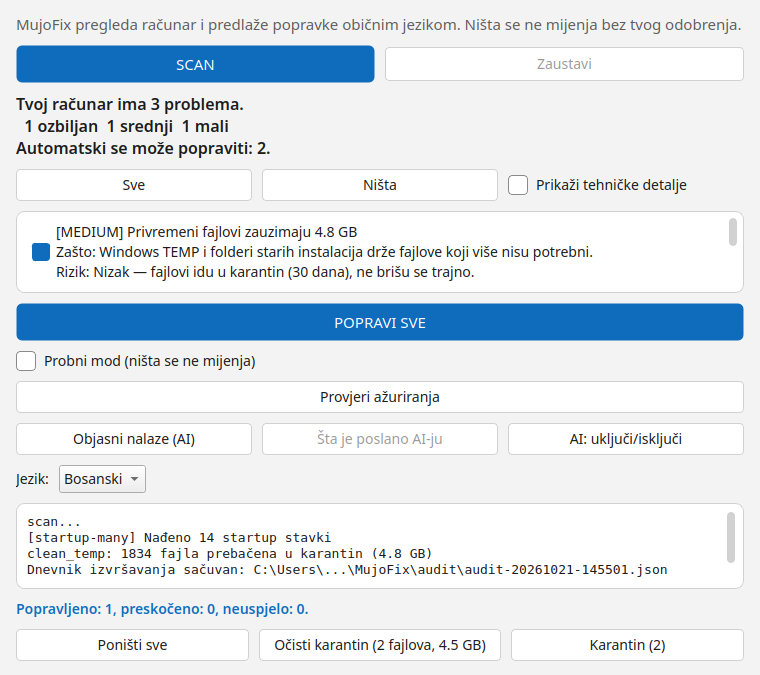
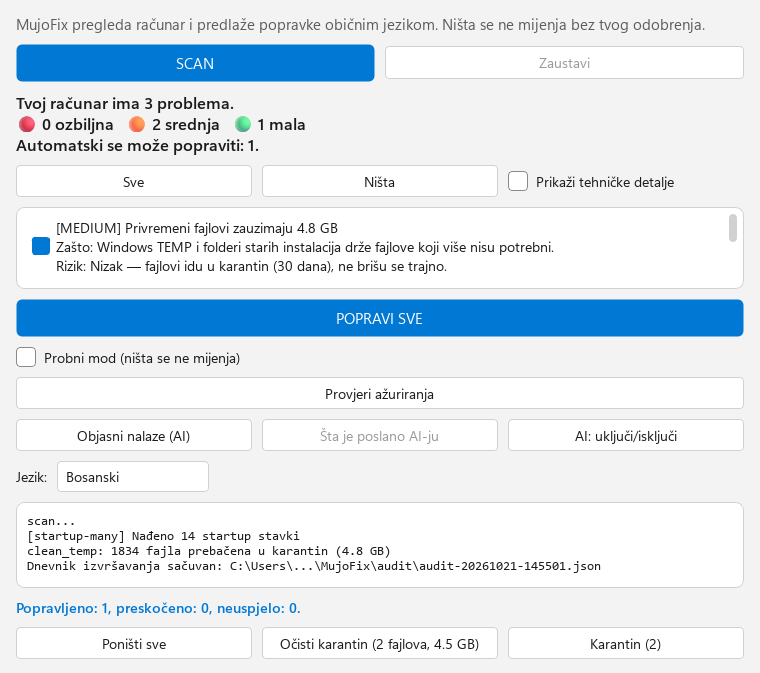
docs: validacija na pravom Win11 laptopu (dokazi + snimke + status)
Prva nezavisna validacija na fizickoj masini (Win11 Enterprise N, build 26300,
WDAC enforced + 8 ASR pravila) — dokazi u lab/results-win11-laptop/:
- scan 11/11 scannera bez skipova, JSON nalaza, ziv update check
- host_proof 12/12 PASS (apply -> verify -> rollback; power SKIP jer je plan
  vec Balanced)
- spike protiv pinovanog opencode 1.18.34: CHECK 1/2/5 PASS (config prihvacen:
  agent mujofix, 11 alata deny, MCP samo nas), 3/4 SKIP (nema kredencijala)
- GUI render offscreen NA WINDOWSU -> docs/screenshots/*.png su sada sa pravog
  Windowsa (Segoe UI, emoji se vide); README vise ne nosi napomenu o emoji-ju

Uz to u repo: lab/results-win11-laptop/README.md sa iskrenim spiskom sta je
agent promijenio na masini (SSH kljuc, privremeni Defender izuzetak, hosts
vracen na standardni sadrzaj, test share/startup rollback-ovani) i sta nije
pokriveno (zivi model, GUI klikanje, installer).

README bs+en, docs/STATUS.md i docs/TESTING.md (A i C oznaceni kao izvrseni na
pravom Windowsu), CHANGELOG (0.4.1). 334 testa.

diff --git a/lab/results-win11-laptop/README.md b/lab/results-win11-laptop/README.md
@@ -1,0 +1,63 @@
+# Rezultati validacije na pravom Windows 11 laptopu (2026-10-23)
+
+Prva **nezavisna validacija na fizičkoj mašini** (ne VM): `sha-laptop-win11`
+(DESKTOP-NGK7CLP), pristup preko SSH-a (Tailscale), sesija **elevated**
+(High Mandatory Level) — bez UAC promptova.
+
+## Mašina
+- **Windows 11 Enterprise N**, build **10.0.26300**
+- **WDAC enforced** (`CodeIntegrityPolicyEnforcementStatus = 2`)
+- **8 ASR pravila aktivna** (uključujući „Block executable files unless
+  prevalence/age/trusted" — zbog toga je prvo pokretanje `MujoFixCLI.exe`
+  vraćalo „Access is denied")
+- File-system filteri: `UCPD`, `WdFilter`, `bfs`, `luafv`, `Wof`, `FileInfo`…
+  (nema trećeg EDR-a)
+- Defender izuzeci **nađeni na mašini**: `C:\Users\Korisnik\mujofix-test`
+  (dodao agent, privremeno) i **`C:\Users\Korisnik\nikto`** (postojao prije
+  agenta — odakle je, nepoznato; vrijedi provjeriti)
+
+## Šta je pokrenuto i rezultat
+| Provjera | Rezultat |
+|---|---|
+| Instalacija (portable, SHA-256 provjeren) | ✅ |
+| `MujoFixCLI.exe scan --lang bs/en` + JSON nalaza | ✅ (`02-cli.txt`, `findings.json`) |
+| `MujoFixCLI.exe update` (živa provjera protiv release-a) | ✅ „Verzija 0.4.0 je najnovija." |
+| `scripts/host_proof.py` (akcije, apply → verify → rollback) | ✅ **12/12 PASS** (`host_proof.txt`) |
+| `scripts/phase0_spike.py` (pinovani opencode) | ✅ 1, 2, 5 PASS; 3/4 SKIP (nema model kredencijala) |
+| GUI render (offscreen, PySide6) | ✅ `docs/screenshots/*.png` su sada sa **pravog Windowsa** |
+
+`host_proof` detalj: `startup` ✅, `temp` ✅, `service` (Spooler restart) ✅,
+**`hosts`** ✅ (uklonjen zapis, ostatak nepromijenjen, rollback bajt-identičan),
+**`share`** ✅ (uklonjen i vraćen; `C$`/`ADMIN$` nedirnuti), `power` — SKIP
+(plan je već Balanced, iskreno).
+
+## Bugovi koje je ova validacija našla (i koji su popravljeni)
+1. **`remove_hosts_entry` je padao** (`WinError 5`) — ovaj Windows **zabranjuje
+   `os.replace`** (`MOVEFILE_REPLACE_EXISTING`) nad `…\etc\hosts`, a dozvoljava
+   `shutil.copyfile` (dokazano direktnim testom: replace ❌, remove+rename ✅,
+   copyfile ✅). → dodat fallback na kopiju (`f7a19b7`).
+2. **Akcija je mijenjala line-endings** (CRLF→LF), pa fajl nije bio
+   bajt-identičan poslije rollback-a → akcija sada radi **nad bajtovima**
+   (`f0694de`).
+3. **Izbor jezika (QComboBox) je u tamnoj temi bio nevidljiv** (bijeli tekst na
+   svijetloj native pozadini) → dodato stilizovanje comba (`1067e2e`).
+4. Usput, u samoj skripti: `host_proof.py` je padao kad akcija ne uspije
+   (`rollback(state=None)`) i imao je pogrešna očekivanja za hosts (`99567f8`).
+
+## Šta agent (ja) jeste promijenio na mašini — iskreno
+- dodao **SSH javni ključ** (`mujofix-agent`) u `administrators_authorized_keys`
+- dodao **privremeni Defender izuzetak** za `%USERPROFILE%\mujofix-test`
+  (bez toga se exe nije mogao pokrenuti zbog ASR/WDAC) — **obrisan na kraju**
+- tokom dijagnostike **prepisao `hosts` fajl**, pa ga **vratio na standardni
+  Windows sadržaj** (824 B, provjereno)
+- napravio i uklonio test share i test startup zapis (rollback-ovano)
+- instalirao `PySide6` (za offscreen snimke)
+
+## Šta još nije pokriveno
+- **Živi AI model** (spike 3/4): nema Zen kredencijala na mašini; besplatni
+  tier i dalje odbija poziv iz CLI-a (poznat rizik).
+- **GUI interakcija** (klikanje kroz „Popravi sve", UAC prompt): GUI je
+  renderovan i akcije su dokazane kroz `host_proof`, ali klikanje kroz prozor
+  nije odrađeno (nema interaktivne sesije za agenta).
+- **Installer** (`MujoFix-Setup-0.4.0.exe`) na ovoj mašini nije pokrenut
+  (korištena je portabilna verzija).

diff --git a/docs/STATUS.md b/docs/STATUS.md
@@ -105,6 +105,40 @@
   vozi bez covjeka. Pri pregledu uhvacen i popravljen bug u redoslijedu
   (`$ctxLog` je koristio `$OutDir` prije definisanja, a ZIP se pravio prije tog
   fajla).
+- VALIDACIJA NA PRAVOM WINDOWSU 2026-10-23 (laptop sha-laptop-win11, pristup
+  preko SSH-a uz kredencijale; sesija elevated = bez UAC): **prva nezavisna
+  validacija na fizickoj masini** — dokazi u `lab/results-win11-laptop/`.
+  Masina: **Win11 Enterprise N, build 26300, WDAC enforced + 8 ASR pravila**
+  (znaci bitno stroze od prosjeka). Rezultati:
+  - `scan` 11/11 scannera bez skipova; JSON nalaza (4 problema); `update` ->
+    "Verzija 0.4.0 je najnovija." (ziva provjera protiv release-a)
+  - **`scripts/host_proof.py`: 12/12 PASS** — startup/temp/service/hosts/share
+    (apply -> verify -> rollback identican; `C$`/`ADMIN$` nedirnuti); `power`
+    SKIP (plan je vec Balanced, iskreno)
+  - `scripts/phase0_spike.py` sa bundlovanim opencode 1.18.34: CHECK 1 PASS
+    (binary bez Node-a), **CHECK 2 PASS (pinovani binarni prihvata nas config:
+    agent mujofix, svih 11 alata deny, MCP samo nas)**, CHECK 5 PASS; 3/4 SKIP
+    (nema model kredencijala)
+  - GUI render offscreen (PySide6) na Windowsu -> `docs/screenshots/*.png` su
+    sada sa PRAVOG Windowsa (emoji se vide)
+  BUGOVI KOJE JE OVA VALIDACIJA NASLA (svi popravljeni):
+  1) `remove_hosts_entry` je padao sa WinError 5 — ovaj Windows ZABRANJUJE
+     `os.replace` (MOVEFILE_REPLACE_EXISTING) nad `...\etc\hosts`, a dozvoljava
+     `shutil.copyfile` (dokazano: replace X, remove+rename OK, copyfile OK) ->
+     fallback na kopiju (`f7a19b7`)
+  2) akcija je mijenjala line-endings (CRLF->LF) -> nije bila bajt-identicna;
+     sada radi nad bajtovima (`f0694de`)
+  3) `QComboBox` (izbor jezika) nije bio stilizovan -> u tamnoj temi nevidljiv
+     tekst; sada stilizovan (`1067e2e`)
+  4) `host_proof.py` je padao kad akcija ne uspije (`rollback(state=None)`) i
+     imao pogresna ocekivanja za hosts (`99567f8`)
+  ISKRENO (sta je agent promijenio na masini): dodao SSH kljuc, dodao
+  PRIVREMENI Defender izuzetak (obrisan), tokom dijagnostike prepisao `hosts` i
+  vratio ga na standardni sadrzaj, napravio/uklonio test share i startup zapis,
+  instalirao PySide6. Naden i POSTOJECI Defender izuzetak
+  `C:\Users\Korisnik\nikto` (nije agentov — vrijedi provjeriti).
+  Nije pokriveno: zivi AI model (nema kredencijala; besplatni tier i dalje
+  odbija CLI poziv), klikanje kroz GUI, pokretanje installer-a.
 - TEST-NA-MASINI 2026-10-22 (bez VM/SSH/Dockera): korisnik moze testirati na
   PRAVOM Windows 11 laptopu. Nove skripte:
   `scripts/install-and-validate.ps1` (skine zvanicni release, PROVJERI SHA-256

diff --git a/README.en.md b/README.en.md
@@ -69,7 +69,7 @@ Anti-hallucination: the AI talks **only about evidence the scanner collected**; 
 
 Fluent 2 / Windows 11: Segoe UI, rounded controls, automatic light/dark theme and
 a Mica backdrop on Win11. Screenshots are from the real app (offscreen render,
-Bosnian UI; the summary emoji do not render in an offscreen capture — they do on Windows):
+Bosnian UI; rendered offscreen on real Windows 11):
 
 <p align="center">
   <img src="docs/screenshots/mujofix-light.png" alt="MujoFix — light theme" width="520">
@@ -148,7 +148,7 @@ Hard-coded blacklist in the AI-plan validator (System32, WinSxS, Program Files, 
 
 ## 🚦 Status
 
-All phases (0–6) are implemented in code and validated **host-direct on a real Windows 11 machine**: full scan (9/9 scanners at that time, 0 skipped; the `tasks` scanner was added 2026-10-22), the 3 host-proven fix actions (of 11 in the catalog: startup, temp, service) with apply → verify → rollback, GUI smoke, and spike checks 1–2. the full unit-test suite (230+ tests) passes locally (Linux, Qt offscreen); CI is green on Ubuntu and Windows and smoke-tests the packaged exe on every push. The extended Win10 + Win11 clean-VM matrix remains an **optional** follow-up — see [docs/TESTING.md](docs/TESTING.md). The build is unsigned (SmartScreen warning expected).
+**Validated on a real Windows 11 laptop (2026-10-23, Enterprise N with WDAC enforced):** scan 11/11 scanners with no skips, **host_proof 12/12 PASS** (apply → verify → rollback, including the new hosts/share/power actions), the pinned opencode accepts our config (agent `mujofix`, all 11 built-in tools `deny`), CLI bs/en + findings JSON + live update check — evidence in [lab/results-win11-laptop/](lab/results-win11-laptop/). Earlier: host-direct on another Win11 machine (scan 9/9 at that time, 3 actions with identical rollback, GUI smoke, spike 1–2). the full unit-test suite (230+ tests) passes locally (Linux, Qt offscreen); CI is green on Ubuntu and Windows and smoke-tests the packaged exe on every push. The extended Win10 + Win11 clean-VM matrix remains an **optional** follow-up — see [docs/TESTING.md](docs/TESTING.md). The build is unsigned (SmartScreen warning expected).
 
 ## ⚠ Disclaimer
 

diff --git a/README.md b/README.md
@@ -84,7 +84,7 @@
 
 <p>Fluent 2 / Windows 11: Segoe UI, zaobljene kontrole, automatska svijetla/tamna
 tema i Mica pozadina na Win11. Snimke su sa stvarne aplikacije (offscreen
-render, bs jezik; emoji iz sažetka se u offscreen snimci ne crtaju — na Windowsu se prikazuju):</p>
+render na pravom Windows 11, bs jezik):</p>
 
 <p align="center">
   <img src="docs/screenshots/mujofix-light.png" alt="MujoFix — svijetla tema" width="520">
@@ -219,7 +219,7 @@ MujoFix UI → MujoFix Core (scanneri, katalog, executor, rollback)
   <tr><td><b>6</b></td><td>Installer, potpisivanje, auto-update, javni release</td><td>🟡 kod gotov; build/release odluka otvorena (nepotpisan)</td></tr>
 </table>
 
-<p>Sve faze su implementirane u kodu i potvrđene <i>host-direct</i> na pravom Windows 11 računaru (scan 9/9 u tom runu — `tasks` scanner je dodat kasnije, 3 akcije uz identičan rollback preko host dokaza, GUI smoke, spike 1–2). Puna VM matrica (Win10 + Win11, čist sistem) ostaje kao opciona, produžena validacija — vidi <a href="docs/TESTING.md">docs/TESTING.md</a>.</p>
+<p><b>Validacija na pravom Windows 11 (2026-10-23, laptop, Enterprise N sa WDAC enforced):</b> scan 11/11 scannera bez skipova, <b>host_proof 12/12 PASS</b> (apply → verify → rollback, uključujući nove akcije hosts/share/power), pinovani opencode prihvata naš config (agent `mujofix`, svih 11 alata `deny`), CLI bs/en + JSON nalaza + živa provjera update-a — dokazi u <a href="lab/results-win11-laptop/">lab/results-win11-laptop/</a>. Ranije: <i>host-direct</i> na drugom Win11 računaru (scan 9/9 u tom runu, 3 akcije uz identičan rollback, GUI smoke, spike 1–2). Puna VM matrica (Win10 + Win11, čist sistem) ostaje kao opciona, produžena validacija — vidi <a href="docs/TESTING.md">docs/TESTING.md</a>.</p>
 
 <p>Detalji po sesiji: <a href="docs/STATUS.md">docs/STATUS.md</a> • Pravila za kodere: <a href="AGENTS.md">AGENTS.md</a></p>
 

diff --git a/docs/TESTING.md b/docs/TESTING.md
@@ -21,6 +21,11 @@ uz tvrde kočnice (samo test-artefakti) i vraćanje u `finally`. Akcije 4-6 su
 **netestirane** dok se ne pokrenu na VM-u; hosts/share bez admina = SKIP.
 
 ## A. Faza 0 SPIKE (`scripts/phase0_spike.py --model <zen-model>`)
+
+> **Izvršeno na pravom Win11 (2026-10-23)**: 1, 2 i 5 PASS protiv pinovanog
+> opencode 1.18.34 (config prihvaćen: agent `mujofix`, 11 alata `deny`, MCP samo
+> naš); 3 i 4 SKIP (nema model kredencijala). Dokazi:
+> `lab/results-win11-laptop/01-spike.txt`.
 - [ ] 1. Bundlovani OpenCode se pokreće bez Node-a (Win10 / Win11)
 - [ ] 2. `opencode debug config` prihvata naš config (agent `mujofix`, 11 alata `deny`, samo naš MCP; 0 tuđih servera/pluginova)
 - [ ] 3. Agent `mujofix` pozove MCP alat s lažnim podacima
@@ -49,6 +54,10 @@ uz tvrde kočnice (samo test-artefakti) i vraćanje u `finally`. Akcije 4-6 su
       prijavljuju jer su im programi u sistemskim folderima
 
 ## C. Akcije uživo (SVAKA: apply → verify → rollback → identično stanje)
+
+> **Izvršeno na pravom Win11 (2026-10-23)**: `scripts/host_proof.py` **12/12
+> PASS** (startup, temp, service, hosts, share; `power` SKIP jer je plan već
+> Balanced). Dokaz: `lab/results-win11-laptop/host_proof.txt`.
 - [ ] disable_startup_item na test stavci (HKCU, bez UAC)
 - [ ] clean_temp na test folderu (fajl stariji od 7 dana, sadržaj identičan nakon rollback-a)
 - [ ] restart_service na Spooleru (treba UAC prompt + objašnjenje prije)

diff --git a/CHANGELOG.md b/CHANGELOG.md
@@ -2,6 +2,18 @@
 
 ## [0.4.1] (u razvoju — nije objavljeno)
 
+### Ispravljeno
+- **Validacija na pravom Windows 11 laptopu (Enterprise N, WDAC enforced)**
+  našla tri buga koja nijedan lokalni test nije mogao: (1) `remove_hosts_entry`
+  je padao sa `WinError 5` jer taj Windows **zabranjuje `os.replace`** nad
+  `…\etc\hosts` (a dozvoljava kopiju) → dodat fallback; (2) akcija je
+  mijenjala **line-endings (CRLF→LF)** pa nije bila bajt-identična → sada radi
+  nad bajtovima; (3) **izbor jezika (QComboBox) je u tamnoj temi bio
+  nevidljiv** → dodato stilizovanje. Uz to `host_proof.py` više ne pada kad
+  akcija ne uspije. Rezultat validacije: scan 11/11, **host_proof 12/12
+  PASS**, pinovani opencode prihvata config (11 alata `deny`), CLI bs/en +
+  JSON + živi update. Dokazi: `lab/results-win11-laptop/`.
+
 ### Dodano
 - **`scripts/install-and-validate.ps1`** — validacija na PRAVOM Windowsu
   (bez VM-a/SSH-a/Dockera): skine zvanični release, **provjeri SHA-256**
